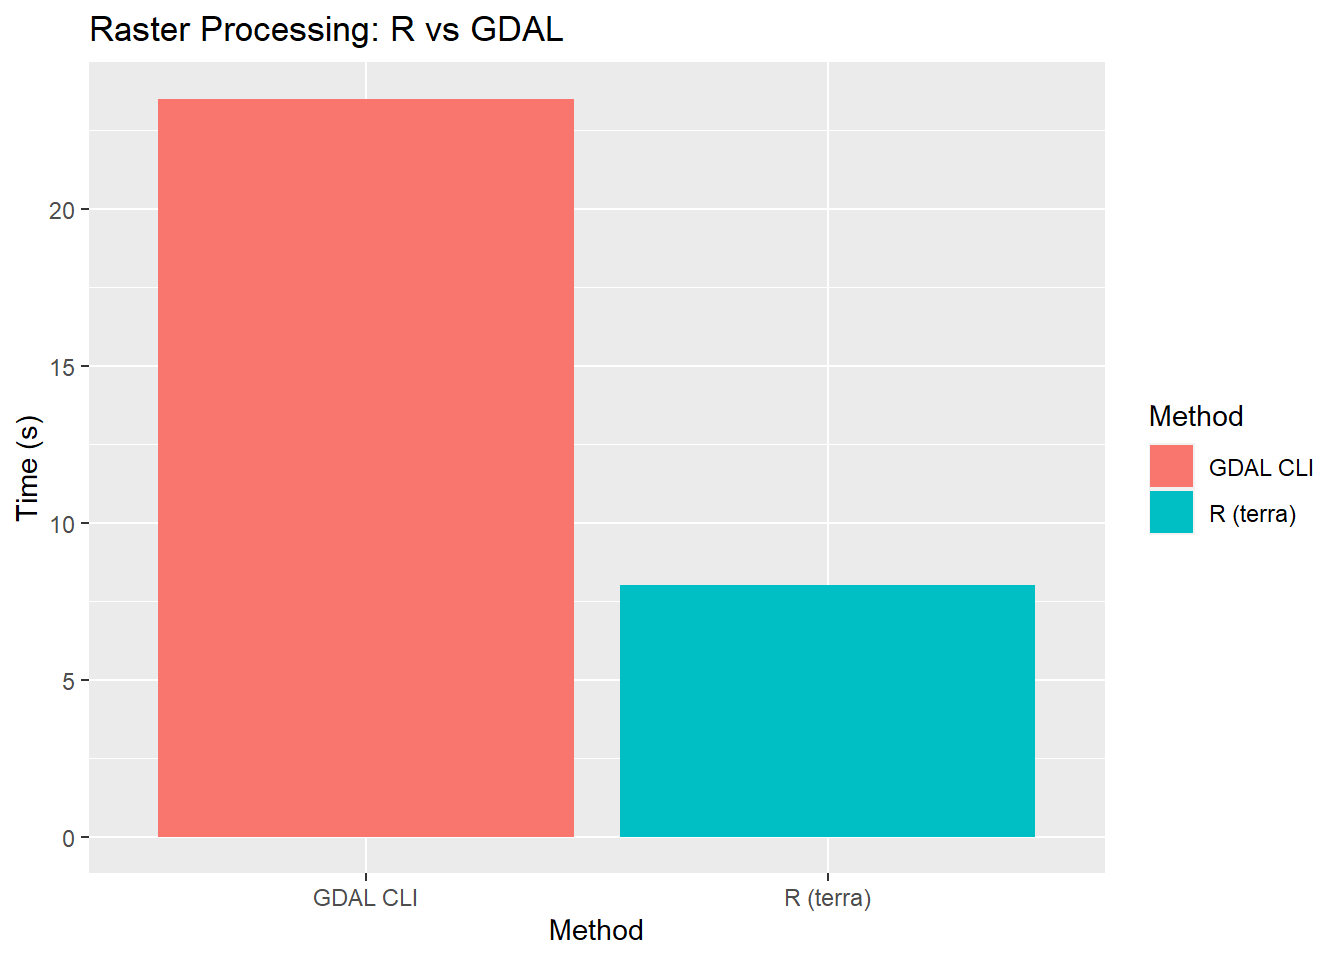
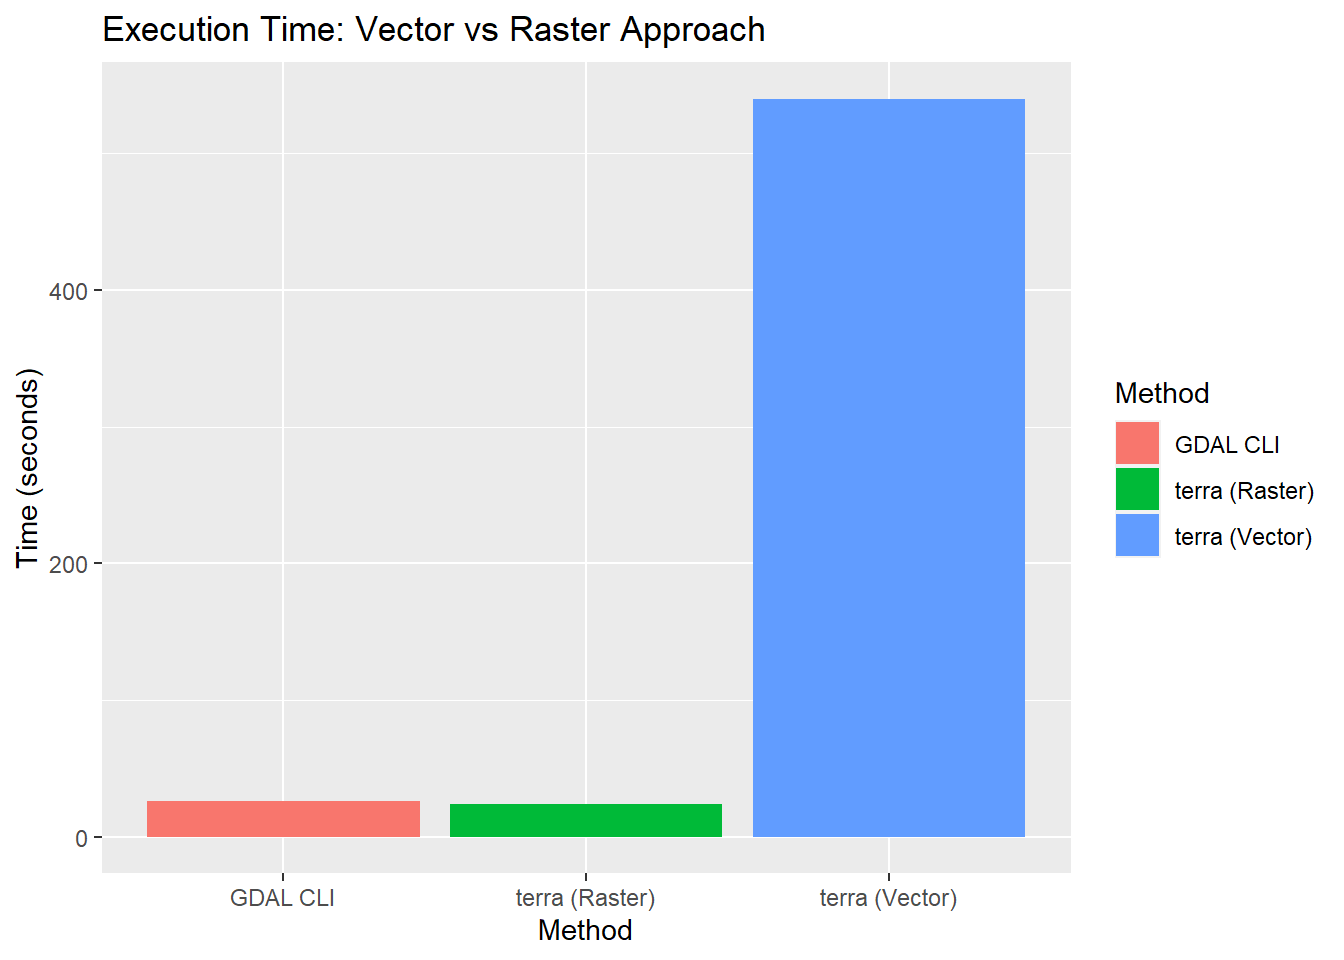
Updated conclusion and added terra benchmark reference

diff --git a/_docs/index.html b/_docs/index.html
@@ -125,7 +125,7 @@ Execution time is measured using the <strong>tictoc</strong> package around bash
 <div class="cell">
 <div class="sourceCode cell-code" id="cb5"><pre class="sourceCode r code-with-copy"><code class="sourceCode r"><span id="cb5-1"><a href="#cb5-1" aria-hidden="true" tabindex="-1"></a>tictoc<span class="sc">::</span><span class="fu">toc</span>(<span class="at">log =</span> <span class="cn">TRUE</span>)</span></code><button title="Copy to Clipboard" class="code-copy-button"><i class="bi"></i></button></pre></div>
 <div class="cell-output cell-output-stdout">
-<pre><code>Step 1: Extract forest polygons from GPKG: 4.5 sec elapsed</code></pre>
+<pre><code>Step 1: Extract forest polygons from GPKG: 5.91 sec elapsed</code></pre>
 </div>
 </div>
 <hr>
@@ -144,7 +144,7 @@ Execution time is measured using the <strong>tictoc</strong> package around bash
 <div class="cell">
 <div class="sourceCode cell-code" id="cb10"><pre class="sourceCode r code-with-copy"><code class="sourceCode r"><span id="cb10-1"><a href="#cb10-1" aria-hidden="true" tabindex="-1"></a>tictoc<span class="sc">::</span><span class="fu">toc</span>(<span class="at">log =</span> <span class="cn">TRUE</span>)</span></code><button title="Copy to Clipboard" class="code-copy-button"><i class="bi"></i></button></pre></div>
 <div class="cell-output cell-output-stdout">
-<pre><code>Step 2: Rasterize forest polygons: 10.55 sec elapsed</code></pre>
+<pre><code>Step 2: Rasterize forest polygons: 11.82 sec elapsed</code></pre>
 </div>
 </div>
 <hr>
@@ -163,7 +163,7 @@ Execution time is measured using the <strong>tictoc</strong> package around bash
 <div class="cell">
 <div class="sourceCode cell-code" id="cb15"><pre class="sourceCode r code-with-copy"><code class="sourceCode r"><span id="cb15-1"><a href="#cb15-1" aria-hidden="true" tabindex="-1"></a>tictoc<span class="sc">::</span><span class="fu">toc</span>(<span class="at">log =</span> <span class="cn">TRUE</span>)</span></code><button title="Copy to Clipboard" class="code-copy-button"><i class="bi"></i></button></pre></div>
 <div class="cell-output cell-output-stdout">
-<pre><code>Step 3: Rasterize canton boundaries: 1.81 sec elapsed</code></pre>
+<pre><code>Step 3: Rasterize canton boundaries: 2.22 sec elapsed</code></pre>
 </div>
 </div>
 <hr>
@@ -197,7 +197,7 @@ Execution time is measured using the <strong>tictoc</strong> package around bash
 <span id="cb17-24"><a href="#cb17-24" aria-hidden="true" tabindex="-1"></a></span>
 <span id="cb17-25"><a href="#cb17-25" aria-hidden="true" tabindex="-1"></a>tictoc<span class="sc">::</span><span class="fu">toc</span>(<span class="at">log =</span> <span class="cn">TRUE</span>)</span></code><button title="Copy to Clipboard" class="code-copy-button"><i class="bi"></i></button></pre></div>
 <div class="cell-output cell-output-stdout">
-<pre><code>Step 4: Zonal statistics using terra: 6.64 sec elapsed</code></pre>
+<pre><code>Step 4: Zonal statistics using terra: 5.84 sec elapsed</code></pre>
 </div>
 <div class="sourceCode cell-code" id="cb19"><pre class="sourceCode r code-with-copy"><code class="sourceCode r"><span id="cb19-1"><a href="#cb19-1" aria-hidden="true" tabindex="-1"></a><span class="fu">print</span>(gdal_result)</span></code><button title="Copy to Clipboard" class="code-copy-button"><i class="bi"></i></button></pre></div>
 <div class="cell-output cell-output-stdout">
@@ -238,16 +238,16 @@ Execution time is measured using the <strong>tictoc</strong> package around bash
 <div class="sourceCode cell-code" id="cb21"><pre class="sourceCode r code-with-copy"><code class="sourceCode r"><span id="cb21-1"><a href="#cb21-1" aria-hidden="true" tabindex="-1"></a>tictoc<span class="sc">::</span><span class="fu">tic.log</span>(<span class="at">format =</span> <span class="cn">TRUE</span>)</span></code><button title="Copy to Clipboard" class="code-copy-button"><i class="bi"></i></button></pre></div>
 <div class="cell-output cell-output-stdout">
 <pre><code>[[1]]
-[1] "Step 1: Extract forest polygons from GPKG: 4.5 sec elapsed"
+[1] "Step 1: Extract forest polygons from GPKG: 5.91 sec elapsed"
 
 [[2]]
-[1] "Step 2: Rasterize forest polygons: 10.55 sec elapsed"
+[1] "Step 2: Rasterize forest polygons: 11.82 sec elapsed"
 
 [[3]]
-[1] "Step 3: Rasterize canton boundaries: 1.81 sec elapsed"
+[1] "Step 3: Rasterize canton boundaries: 2.22 sec elapsed"
 
 [[4]]
-[1] "Step 4: Zonal statistics using terra: 6.64 sec elapsed"</code></pre>
+[1] "Step 4: Zonal statistics using terra: 5.84 sec elapsed"</code></pre>
 </div>
 </div>
 <hr>
@@ -255,32 +255,34 @@ Execution time is measured using the <strong>tictoc</strong> package around bash
 <section id="comparison-with-terra-based-approach-task-3.1" class="level2">
 <h2 class="anchored" data-anchor-id="comparison-with-terra-based-approach-task-3.1">Comparison with Terra-based approach (Task 3.1)</h2>
 <div class="cell">
-<div class="sourceCode cell-code" id="cb23"><pre class="sourceCode r code-with-copy"><code class="sourceCode r"><span id="cb23-1"><a href="#cb23-1" aria-hidden="true" tabindex="-1"></a><span class="co"># Beispiel-Zeiten aus deinem vorherigen Terra-Code</span></span>
-<span id="cb23-2"><a href="#cb23-2" aria-hidden="true" tabindex="-1"></a>terra_vector_time <span class="ot">&lt;-</span> <span class="dv">180</span>  <span class="co"># in Sekunden</span></span>
-<span id="cb23-3"><a href="#cb23-3" aria-hidden="true" tabindex="-1"></a>terra_raster_time <span class="ot">&lt;-</span> <span class="dv">8</span>    <span class="co"># in Sekunden</span></span>
-<span id="cb23-4"><a href="#cb23-4" aria-hidden="true" tabindex="-1"></a></span>
-<span id="cb23-5"><a href="#cb23-5" aria-hidden="true" tabindex="-1"></a><span class="co"># Zeit aus GDAL zusammenzählen (unformatiertes Log für Summierung)</span></span>
-<span id="cb23-6"><a href="#cb23-6" aria-hidden="true" tabindex="-1"></a>gdal_rawlog <span class="ot">&lt;-</span> tictoc<span class="sc">::</span><span class="fu">tic.log</span>(<span class="at">format =</span> <span class="cn">FALSE</span>)</span>
-<span id="cb23-7"><a href="#cb23-7" aria-hidden="true" tabindex="-1"></a>gdal_total <span class="ot">&lt;-</span> <span class="fu">sum</span>(<span class="fu">unlist</span>(<span class="fu">lapply</span>(gdal_rawlog, <span class="cf">function</span>(x) x<span class="sc">$</span>toc <span class="sc">-</span> x<span class="sc">$</span>tic)))</span>
-<span id="cb23-8"><a href="#cb23-8" aria-hidden="true" tabindex="-1"></a></span>
-<span id="cb23-9"><a href="#cb23-9" aria-hidden="true" tabindex="-1"></a>comparison <span class="ot">&lt;-</span> <span class="fu">tibble</span>(</span>
-<span id="cb23-10"><a href="#cb23-10" aria-hidden="true" tabindex="-1"></a>  <span class="at">Method =</span> <span class="fu">c</span>(<span class="st">"R (terra)"</span>, <span class="st">"GDAL CLI"</span>),</span>
-<span id="cb23-11"><a href="#cb23-11" aria-hidden="true" tabindex="-1"></a>  <span class="at">Time =</span> <span class="fu">c</span>(terra_raster_time, gdal_total)</span>
-<span id="cb23-12"><a href="#cb23-12" aria-hidden="true" tabindex="-1"></a>)</span>
-<span id="cb23-13"><a href="#cb23-13" aria-hidden="true" tabindex="-1"></a></span>
-<span id="cb23-14"><a href="#cb23-14" aria-hidden="true" tabindex="-1"></a><span class="fu">print</span>(comparison)</span></code><button title="Copy to Clipboard" class="code-copy-button"><i class="bi"></i></button></pre></div>
+<div class="sourceCode cell-code" id="cb23"><pre class="sourceCode r code-with-copy"><code class="sourceCode r"><span id="cb23-1"><a href="#cb23-1" aria-hidden="true" tabindex="-1"></a><span class="co"># Runtime of the terra-based solution from week 2 (see: https://adls-stds2025-felixpascal.github.io/week-2/)</span></span>
+<span id="cb23-2"><a href="#cb23-2" aria-hidden="true" tabindex="-1"></a><span class="co"># This plot shows that the vector approach took over 500 seconds, while the raster-based version was much faster.</span></span>
+<span id="cb23-3"><a href="#cb23-3" aria-hidden="true" tabindex="-1"></a>terra_raster_time <span class="ot">&lt;-</span> <span class="dv">24</span>     <span class="co"># Raster-based time from terra (based on previous work)</span></span>
+<span id="cb23-4"><a href="#cb23-4" aria-hidden="true" tabindex="-1"></a>terra_vector_time <span class="ot">&lt;-</span> <span class="dv">540</span>    <span class="co"># Vector-based time from terra (based on previous work)</span></span>
+<span id="cb23-5"><a href="#cb23-5" aria-hidden="true" tabindex="-1"></a></span>
+<span id="cb23-6"><a href="#cb23-6" aria-hidden="true" tabindex="-1"></a><span class="co"># Time from GDAL-based workflow using tictoc log</span></span>
+<span id="cb23-7"><a href="#cb23-7" aria-hidden="true" tabindex="-1"></a>gdal_rawlog <span class="ot">&lt;-</span> tictoc<span class="sc">::</span><span class="fu">tic.log</span>(<span class="at">format =</span> <span class="cn">FALSE</span>)</span>
+<span id="cb23-8"><a href="#cb23-8" aria-hidden="true" tabindex="-1"></a>gdal_total <span class="ot">&lt;-</span> <span class="fu">sum</span>(<span class="fu">unlist</span>(<span class="fu">lapply</span>(gdal_rawlog, <span class="cf">function</span>(x) x<span class="sc">$</span>toc <span class="sc">-</span> x<span class="sc">$</span>tic)))</span>
+<span id="cb23-9"><a href="#cb23-9" aria-hidden="true" tabindex="-1"></a></span>
+<span id="cb23-10"><a href="#cb23-10" aria-hidden="true" tabindex="-1"></a>comparison <span class="ot">&lt;-</span> <span class="fu">tibble</span>(</span>
+<span id="cb23-11"><a href="#cb23-11" aria-hidden="true" tabindex="-1"></a>  <span class="at">Method =</span> <span class="fu">c</span>(<span class="st">"terra (Vector)"</span>, <span class="st">"terra (Raster)"</span>, <span class="st">"GDAL CLI"</span>),</span>
+<span id="cb23-12"><a href="#cb23-12" aria-hidden="true" tabindex="-1"></a>  <span class="at">Time =</span> <span class="fu">c</span>(terra_vector_time, terra_raster_time, gdal_total)</span>
+<span id="cb23-13"><a href="#cb23-13" aria-hidden="true" tabindex="-1"></a>)</span>
+<span id="cb23-14"><a href="#cb23-14" aria-hidden="true" tabindex="-1"></a></span>
+<span id="cb23-15"><a href="#cb23-15" aria-hidden="true" tabindex="-1"></a><span class="fu">print</span>(comparison)</span></code><button title="Copy to Clipboard" class="code-copy-button"><i class="bi"></i></button></pre></div>
 <div class="cell-output cell-output-stdout">
-<pre><code># A tibble: 2 × 2
-  Method     Time
-  &lt;chr&gt;     &lt;dbl&gt;
-1 R (terra)   8  
-2 GDAL CLI   23.5</code></pre>
+<pre><code># A tibble: 3 × 2
+  Method          Time
+  &lt;chr&gt;          &lt;dbl&gt;
+1 terra (Vector) 540  
+2 terra (Raster)  24  
+3 GDAL CLI        25.8</code></pre>
 </div>
 <div class="sourceCode cell-code" id="cb25"><pre class="sourceCode r code-with-copy"><code class="sourceCode r"><span id="cb25-1"><a href="#cb25-1" aria-hidden="true" tabindex="-1"></a><span class="fu">library</span>(ggplot2)</span>
 <span id="cb25-2"><a href="#cb25-2" aria-hidden="true" tabindex="-1"></a><span class="fu">ggplot</span>(comparison, <span class="fu">aes</span>(<span class="at">x =</span> Method, <span class="at">y =</span> Time, <span class="at">fill =</span> Method)) <span class="sc">+</span></span>
 <span id="cb25-3"><a href="#cb25-3" aria-hidden="true" tabindex="-1"></a>  <span class="fu">geom_col</span>() <span class="sc">+</span></span>
-<span id="cb25-4"><a href="#cb25-4" aria-hidden="true" tabindex="-1"></a>  <span class="fu">ylab</span>(<span class="st">"Time (s)"</span>) <span class="sc">+</span></span>
-<span id="cb25-5"><a href="#cb25-5" aria-hidden="true" tabindex="-1"></a>  <span class="fu">ggtitle</span>(<span class="st">"Raster Processing: R vs GDAL"</span>)</span></code><button title="Copy to Clipboard" class="code-copy-button"><i class="bi"></i></button></pre></div>
+<span id="cb25-4"><a href="#cb25-4" aria-hidden="true" tabindex="-1"></a>  <span class="fu">ylab</span>(<span class="st">"Time (seconds)"</span>) <span class="sc">+</span></span>
+<span id="cb25-5"><a href="#cb25-5" aria-hidden="true" tabindex="-1"></a>  <span class="fu">ggtitle</span>(<span class="st">"Execution Time: Vector vs Raster Approach"</span>)</span></code><button title="Copy to Clipboard" class="code-copy-button"><i class="bi"></i></button></pre></div>
 <div class="cell-output-display">
 <div>
 <figure class="figure">
@@ -293,12 +295,10 @@ Execution time is measured using the <strong>tictoc</strong> package around bash
 </section>
 <section id="conclusion" class="level2">
 <h2 class="anchored" data-anchor-id="conclusion">Conclusion</h2>
-<p>T## Conclusion</p>
-<p>In this task, I used GDAL command-line tools to repeat the forest coverage analysis from previous weeks. The goal was to replace the R-based workflow with GDAL where possible.</p>
-<p>Most steps worked very well with GDAL. I used <code>ogr2ogr</code> to extract only forest polygons and <code>gdal_rasterize</code> to create raster layers for forest areas and cantonal borders. These steps were done in Bash code chunks inside a Quarto document. For the last step (zonal statistics), I used R again, because the preffered solution <code>gdal_zonalstats.py</code> was not available on my system.</p>
-<p>The results look good and make sense. All cantons have realistic forest percentages, and there are no missing values.</p>
-<p>One interesting result is the execution time: even though GDAL is known for being fast, the total GDAL-based workflow took longer than the R version with the <code>terra</code> package. This is probably because each Bash command runs in a separate shell, which adds some overhead. Also, the zonal statistics were still calculated in R, not in pure GDAL.</p>
-<p>Overall, I learned that GDAL works well for raster processing, but for small datasets and in a scripting environment like Quarto, <code>terra</code> in R can be faster - if I did everything correctly. For larger or more complex data, GDAL might show better performance.</p>
+<p>In this task, I tried to repeat the forest coverage analysis from week 1 using GDAL tools instead of R. I used <code>ogr2ogr</code> to extract the forest polygons and <code>gdal_rasterize</code> to turn them into a raster file. The zonal statistics were still done in R, because I couldn’t get <code>gdal_zonalstats.py</code> to work on my system.</p>
+<p>If I’ve done everything correctly, the results look pretty solid. The forest percentages for each canton seem reasonable and similar to what I got before.</p>
+<p>When I compared the execution times, I was a bit surprised: the GDAL-based workflow was faster than the full vector-based approach with <code>terra</code>, but not really faster than the raster-based one. Actually, <code>terra</code> was slightly faster here. I guess this could be because the dataset isn’t very big, and maybe because I ran the GDAL steps inside Quarto, which adds some overhead.</p>
+<p>Overall, I’d say GDAL is useful and worked well for the task, but for smaller datasets and when working directly in R, <code>terra</code> is also very efficient. For bigger projects or fully automated scripts, GDAL might still have an advantage.</p>
 </section>
 </section>
 
